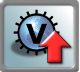
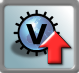
tab edits

diff --git a/Module_Platform.html b/Module_Platform.html
@@ -30,8 +30,8 @@ require(["dijit/form/Button"]);</script>
 
     .moduleIcon {
     background-repeat : no-repeat;
-    height : 73px;
-    width : 78px;
+    height : 75px;
+    width : 90px;
 }
 
     .projectBrowse {
@@ -66,9 +66,40 @@ require(["dijit/form/Button"]);</script>
 </head>
 
 <body class="claro" dvFlowLayout="true" data-davinci-ws="collapse" id="myapp">
-<div id="Main_App_View" dojoType="dijit.layout.BorderContainer" design="sidebar" gutters="true" style="min-width: 1100px; min-height: 600px; z-index: 0; width: 100%; height: 100%;">
 
-<div id="Footer" dojoType="dijit.layout.ContentPane" region="bottom" text-align="center" style="width: 100%; height: 30px;">
+<span dojoType="dijit.MenuBar" tabIndex="0">
+    <span dojoType="dijit.PopupMenuBarItem" label="VOEIS Data Hub">
+        <span dojoType="dijit.Menu">
+            <span onClick="location.href='VOEIS_Splash_Page.html'" dojoType="dijit.MenuItem" label="Home"></span>
+            <span onClick="location.href='about.html'" dojoType="dijit.MenuItem" label="About"></span>
+            <span onClick="location.href='dev_activity.html'" dojoType="dijit.MenuItem" label="Development Activity"></span>
+            <span onClick="location.href='dev_roadmap.html'" dojoType="dijit.MenuItem" label="Development Roadmap"></span>
+            <span onClick="location.href='https://voeis.msu.montana.edu/doc/yard/'" dojoType="dijit.MenuItem" label="For Developers..."></span>
+        </span>
+    </span>
+    <span dojoType="dijit.PopupMenuBarItem" label="User" style="float:right;">
+        <span dojoType="dijit.Menu">
+            <span dojoType="dijit.MenuItem" label="Account Settings"></span>
+            <span dojoType="dijit.MenuItem" label="Log Out"></span>
+        </span>
+    </span>
+</span>
+
+<div id="Main_App_View" dojoType="dijit.layout.BorderContainer" design="sidebar" gutters="false" style="min-width: 1100px; min-height: 600px; z-index: 0; width: 100%; height: 98%;">
+
+<div id="Center" dojoType="dijit.layout.ContentPane" region="center" doLayout="false">
+    <span dojoType="dijit.layout.TabContainer" controllerWidget="dijit.layout.TabController" style="width: 100%; height: 100%;" tabPosition="left-h">
+        <div id="Project_Browser" href="Project_Browse_Module.html" parseOnLoad="true" selected="selected" dojoType="dijit.layout.ContentPane" iconClass="moduleIcon projectBrowse"></div>
+        <div id="Data_Loader" href="Data_Upload_Module.html" parseOnLoad="true" dojoType="dijit.layout.ContentPane" iconClass="moduleIcon dataUpload"></div>
+        <div id="Project_Manager" href="Project_Manager_Module.html" parseOnLoad="true" dojoType="dijit.layout.ContentPane" iconClass="moduleIcon projectManager"></div>
+        <div id="Data_Toolkit" href="Data_Toolkit_Module.html" parseOnLoad="true" dojoType="dijit.layout.ContentPane" iconClass="moduleIcon dataToolkit"></div>
+        <div id="Equipment_Manager" href="Equipment_Manager_Module.html" parseOnLoad="true" dojoType="dijit.layout.ContentPane" iconClass="moduleIcon equipmentManager"></div>
+        <div id="Lab_Manager" href="Lab_Manager_Module.html" parseOnLoad="true" dojoType="dijit.layout.ContentPane" iconClass="moduleIcon labManager"></div>
+        <div id="Simulation_Manager" href="Simulation_Manager_Module.html" parseOnLoad="true" dojoType="dijit.layout.ContentPane" iconClass="moduleIcon simulationManager"></div>
+    </span>
+</div>
+
+<div id="Footer" dojoType="dijit.layout.ContentPane" region="bottom" text-align="center" style="width: 100%; height: 28px;">
     <center>
         <img src="data/images/FLBS_logo.gif" class="footerIcon"></img>
         <img src="data/images/HBS_logo.jpg" class="footerIcon"></img>
@@ -80,35 +111,6 @@ require(["dijit/form/Button"]);</script>
         <img src="data/images/YERC_logo.jpg" class="footerIcon"></img>
         <img src="data/images/YOGO_logo.png" class="footerIcon"></img>
     </center>
-</div>
-
-<div id="Center" dojoType="dijit.layout.ContentPane" region="center" doLayout="false">
-    <span dojoType="dijit.MenuBar" tabIndex="0">
-        <span dojoType="dijit.PopupMenuBarItem" label="VOEIS Data Hub">
-            <span dojoType="dijit.Menu">
-                <span onClick="location.href='VOEIS_Splash_Page.html'" dojoType="dijit.MenuItem" label="Home"></span>
-                <span onClick="location.href='about.html'" dojoType="dijit.MenuItem" label="About"></span>
-                <span onClick="location.href='dev_activity.html'" dojoType="dijit.MenuItem" label="Development Activity"></span>
-                <span onClick="location.href='dev_roadmap.html'" dojoType="dijit.MenuItem" label="Development Roadmap"></span>
-                <span onClick="location.href='https://voeis.msu.montana.edu/doc/yard/'" dojoType="dijit.MenuItem" label="For Developers..."></span>
-            </span>
-        </span>
-        <span dojoType="dijit.PopupMenuBarItem" label="User" style="float:right;">
-            <span dojoType="dijit.Menu">
-                <span dojoType="dijit.MenuItem" label="Account Settings"></span>
-                <span dojoType="dijit.MenuItem" label="Log Out"></span>
-            </span>
-        </span>
-    </span>
-    <span dojoType="dijit.layout.TabContainer" tabStrip="true" persist="false" controllerWidget="dijit.layout.TabController" style="width: 100%; height: 100%;" tabPosition="left-h">
-        <div id="Project_Browser" href="Project_Browse_Module.html" parseOnLoad="true" selected="selected" dojoType="dijit.layout.ContentPane" iconClass="moduleIcon projectBrowse"></div>
-        <div id="Data_Loader" href="Data_Upload_Module.html" parseOnLoad="true" dojoType="dijit.layout.ContentPane" iconClass="moduleIcon dataUpload"></div>
-        <div id="Project_Manager" href="Project_Manager_Module.html" parseOnLoad="true" dojoType="dijit.layout.ContentPane" iconClass="moduleIcon projectManager"></div>
-        <div id="Data_Toolkit" href="Data_Toolkit_Module.html" parseOnLoad="true" dojoType="dijit.layout.ContentPane" iconClass="moduleIcon dataToolkit"></div>
-        <div id="Equipment_Manager" href="Equipment_Manager_Module.html" parseOnLoad="true" dojoType="dijit.layout.ContentPane" iconClass="moduleIcon equipmentManager"></div>
-        <div id="Lab_Manager" href="Lab_Manager_Module.html" parseOnLoad="true" dojoType="dijit.layout.ContentPane" iconClass="moduleIcon labManager"></div>
-        <div id="Simulation_Manager" href="Simulation_Manager_Module.html" parseOnLoad="true" dojoType="dijit.layout.ContentPane" iconClass="moduleIcon simulationManager"></div>
-    </span>
 </div>
 
 </div>

diff --git a/VOEIS_Splash_Page.html b/VOEIS_Splash_Page.html
@@ -28,23 +28,6 @@ require(["dijit/form/ValidationTextBox"]);</script>
 </head>
 
 <body class="claro" dvFlowLayout="true" data-davinci-ws="collapse" id="myapp">
-<div id="Main_App_View" dojoType="dijit.layout.BorderContainer" design="sidebar" gutters="true" style="min-width: 1100px; min-height: 600px; z-index: 0; width: 100%; height: 100%;">
-
-<div id="Footer" dojoType="dijit.layout.ContentPane" region="bottom" text-align="center" style="width: 100%; height: 30px;">
-    <center>
-        <img src="data/images/FLBS_logo.gif" class="footerIcon"></img>
-        <img src="data/images/HBS_logo.jpg" class="footerIcon"></img>
-        <img src="data/images/MSU_logo.jpg" class="footerIcon"></img>
-        <img src="data/images/Murry_logo.jpg" class="footerIcon"></img>
-        <img src="data/images/UK_logo.jpg" class="footerIcon"></img>
-        <img src="data/images/UL_logo.jpg" class="footerIcon"></img>
-        <img src="data/images/UM_logo.gif" class="footerIcon"></img>
-        <img src="data/images/YERC_logo.jpg" class="footerIcon"></img>
-        <img src="data/images/YOGO_logo.png" class="footerIcon"></img>
-    </center>
-</div>
-
-<div id="Center" dojoType="dijit.layout.ContentPane" region="center" doLayout="false" style="background-image: url('data/images/VOEIS_home_background.png'); background-size: cover; background-repeat: no-repeat;">
     <span dojoType="dijit.MenuBar" tabIndex="0">
         <span dojoType="dijit.PopupMenuBarItem" label="VOEIS Data Hub">
             <span dojoType="dijit.Menu">
@@ -62,11 +45,15 @@ require(["dijit/form/ValidationTextBox"]);</script>
             </span>
         </span>
     </span>
+    
+<div id="Main_App_View" dojoType="dijit.layout.BorderContainer" design="sidebar" gutters="false" style="min-width: 1100px; min-height: 600px; z-index: 0; width: 100%; height: 98%;">
+
+<div id="Center" dojoType="dijit.layout.ContentPane" region="center" doLayout="false" style="background-image: url('data/images/VOEIS_home_background.png'); background-size: cover; background-repeat: no-repeat;">
 
     <div style="width: 40%; height: 80%; z-index: 1; top: 15%; min-width: 20%; max-width: 40%; left: 5%; position: absolute;">
        <img src="data/images/VOEIS_home.png" style="width: 100%;"></img>
      </div>
-     <div style="border: 5px solid black; width: 575px; height: 450px; background-color: #e3e3eb; top: 15%; left: 48%; position: relative;">
+     <div style="border: 5px solid black; width: 575px; height: auto; background-color: #e3e3eb; top: 15%; left: 48%; position: relative;">
        <div style="border-bottom: 1px solid black; background-color: #8aacdf; height: 80px; font-size: 100%;">
          <div style="margin-left: 20px; font-size: 26pt; font-weight: bold;">
            VOEIS</div>
@@ -163,6 +150,21 @@ require(["dijit/form/ValidationTextBox"]);</script>
        </table>
      </div>
    </div>
+
+<div id="Footer" dojoType="dijit.layout.ContentPane" region="bottom" text-align="center" style="width: 100%; height: 28px;">
+    <center>
+        <img src="data/images/FLBS_logo.gif" class="footerIcon"></img>
+        <img src="data/images/HBS_logo.jpg" class="footerIcon"></img>
+        <img src="data/images/MSU_logo.jpg" class="footerIcon"></img>
+        <img src="data/images/Murry_logo.jpg" class="footerIcon"></img>
+        <img src="data/images/UK_logo.jpg" class="footerIcon"></img>
+        <img src="data/images/UL_logo.jpg" class="footerIcon"></img>
+        <img src="data/images/UM_logo.gif" class="footerIcon"></img>
+        <img src="data/images/YERC_logo.jpg" class="footerIcon"></img>
+        <img src="data/images/YOGO_logo.png" class="footerIcon"></img>
+    </center>
+</div>
+
 </div>
 </body>
 </html>

diff --git a/Data_Upload_Module.html b/Data_Upload_Module.html
@@ -2056,10 +2056,10 @@ require(["dijit/ProgressBar"]);</script>
       </div>
       </span>
     </div>
-    <div dojoType="dijit.layout.ContentPane" title="Job Que" extractContent="false" preventCache="false" preload="false" refreshOnShow="false" doLayout="true" closable="false" splitter="false" style="width: 442px; height: 446px;">
+    <div dojoType="dijit.layout.ContentPane" title="Job Queue" extractContent="false" preventCache="false" preload="false" refreshOnShow="false" doLayout="true" closable="false" splitter="false" style="width: 442px; height: 446px;">
       <div style="border: 1px solid gray; margin-bottom: 1em; background-color: #c9dff3;">
         <img src="data/images/job_que.png" style="margin: 0.5em; width: 3%; display: inline-block;"></img>
-                        <span style="margin: 1em; width: 85%; font-weight: bold; display: inline-block; vertical-align: top;">Job Que: Lists the status of all recent file uploads.</span>
+                        <span style="margin: 1em; width: 85%; font-weight: bold; display: inline-block; vertical-align: top;">Job Queue: Lists the status of all recent file uploads.</span>
       </div>
                     <span dojoType="dojo.data.ItemFileReadStore" id="ItemFileReadStore_5" jsId="ItemFileReadStore_5" data="{&quot;identifier&quot;:&quot;uniqe_id&quot;,&quot;items&quot;:[{&quot;uniqe_id&quot;:1,&quot;job_id&quot;:&quot;1&quot;,&quot;_type&quot;:&quot;Time Series&quot;,&quot;_project&quot;:&quot; Project_1&quot;,&quot;_time_submitted&quot;:&quot; 12-31-11 13:23&quot;,&quot;_user&quot;:&quot; User 1&quot;,&quot;_status&quot;:&quot;75%&quot;},{&quot;uniqe_id&quot;:2,&quot;job_id&quot;:&quot;2&quot;,&quot;_type&quot;:&quot;Lab Sample&quot;,&quot;_project&quot;:&quot; Project_2&quot;,&quot;_time_submitted&quot;:&quot; 12-22-09 11:50&quot;,&quot;_user&quot;:&quot; User 1&quot;,&quot;_status&quot;:&quot; 90%&quot;}]}"></span>
                     <span dojoType="dojox.grid.DataGrid" structure="[{&quot;width&quot;:&quot;auto&quot;,&quot;name&quot;:&quot;Job ID&quot;,&quot;field&quot;:&quot;job_id&quot;},{&quot;width&quot;:&quot;auto&quot;,&quot;name&quot;:&quot; Type&quot;,&quot;field&quot;:&quot;_type&quot;},{&quot;width&quot;:&quot;auto&quot;,&quot;name&quot;:&quot; Project&quot;,&quot;field&quot;:&quot;_project&quot;},{&quot;width&quot;:&quot;auto&quot;,&quot;name&quot;:&quot; Time Submitted&quot;,&quot;field&quot;:&quot;_time_submitted&quot;},{&quot;width&quot;:&quot;auto&quot;,&quot;name&quot;:&quot; User&quot;,&quot;field&quot;:&quot;_user&quot;},{&quot;width&quot;:&quot;auto&quot;,&quot;name&quot;:&quot; Status&quot;,&quot;field&quot;:&quot;_status&quot;}]" autoWidth="false" autoHeight="false" singleClickEdit="false" columnReordering="false" selectable="false" delayScroll="false" store="ItemFileReadStore_5" escapeHTMLInData="true" style="width: auto; height: 80%;"></span>
